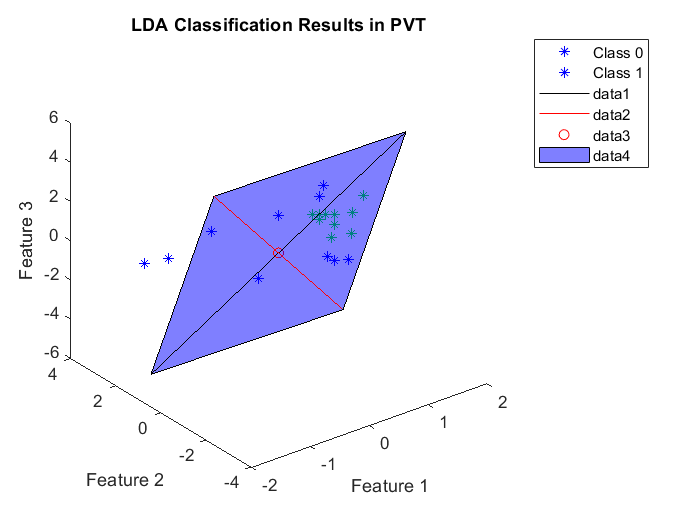
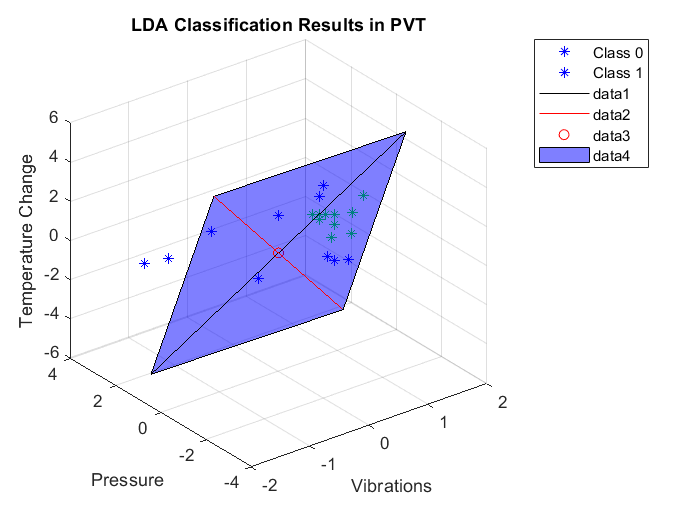
pictures update and title names, wo ye shi ca pi gu de na yi ge ni bie de yi

diff --git a/section_C_Q1.m b/section_C_Q1.m
@@ -54,8 +54,8 @@ invSw = inv(Sw);
 invSw_by_SB = invSw * SB;
 
 % get the projection vector
-[eigenvectors, eigenvalues] = eig(invSw_by_SB);
-W = eigenvectors(:,1);
+[eigenvectors1, eigenvalues1] = eig(invSw_by_SB);
+W = eigenvectors1(:,1);
 
 % LDA model functions
 % ldaModel = fitcdiscr(features, labels);
@@ -114,8 +114,8 @@ invSw = inv(Sw);
 invSw_by_SB = invSw * SB;
 
 % get the projection vector
-[eigenvectors, eigenvalues] = eig(invSw_by_SB);
-W = eigenvectors(:,1);
+[eigenvectors2, eigenvalues2] = eig(invSw_by_SB);
+W = eigenvectors2(:,1);
 
 % LDA model functions
 % ldaModel = fitcdiscr(features, labels);
@@ -143,8 +143,8 @@ hold on;
 
 % gscatter(data0PV(:,1), data0PV(:,2), ldaResubPredict, 'bg', 'x*');
 % legend('Class 0', 'Class 1');
-xlabel('Feature 1');
-ylabel('Feature 2');
+xlabel('Pressure');
+ylabel('Temperature Change');
 title('LDA Classification Results in Pr vs Temp');
 hold on;
 
@@ -174,8 +174,8 @@ invSw = inv(Sw);
 invSw_by_SB = invSw * SB;
 
 % get the projection vector
-[eigenvectors, eigenvalues] = eig(invSw_by_SB);
-W = eigenvectors(:,1);
+[eigenvectors3, eigenvalues3] = eig(invSw_by_SB);
+W = eigenvectors3(:,1);
 
 % LDA model functions
 % ldaModel = fitcdiscr(features, labels);
@@ -203,8 +203,8 @@ hold on;
 
 % gscatter(data0PV(:,1), data0PV(:,2), ldaResubPredict, 'bg', 'x*');
 % legend('Class 0', 'Class 1');
-xlabel('Feature 1');
-ylabel('Feature 2');
+xlabel('Vibration');
+ylabel('Temperature Change');
 title('LDA Classification Results in Vib vs Temp');
 hold on;
 

diff --git a/section_C_Qd.m b/section_C_Qd.m
@@ -119,9 +119,9 @@ for i = 1:size(data0PV, 1)
 end
 
 legend('Class 0', 'Class 1');
-xlabel('Feature 1');
-ylabel('Feature 2');
-zlabel('Feature 3');
+xlabel('Vibrations');
+ylabel('Pressure');
+zlabel('Temperature Change');
 title('LDA Classification Results in PVT');
 hold on;
 

diff --git a/section_C_Qb.m b/section_C_Qb.m
@@ -97,9 +97,9 @@ for i = 1:size(data0PV, 1)
 end
 
 legend('Class 0', 'Class 1');
-xlabel('Feature 1');
-ylabel('Feature 2');
-zlabel('Feature 3');
+xlabel('Vibrations');
+ylabel('Pressure');
+zlabel('Temperature Change');
 title('LDA Classification Results in PVT');
 hold on;
 
